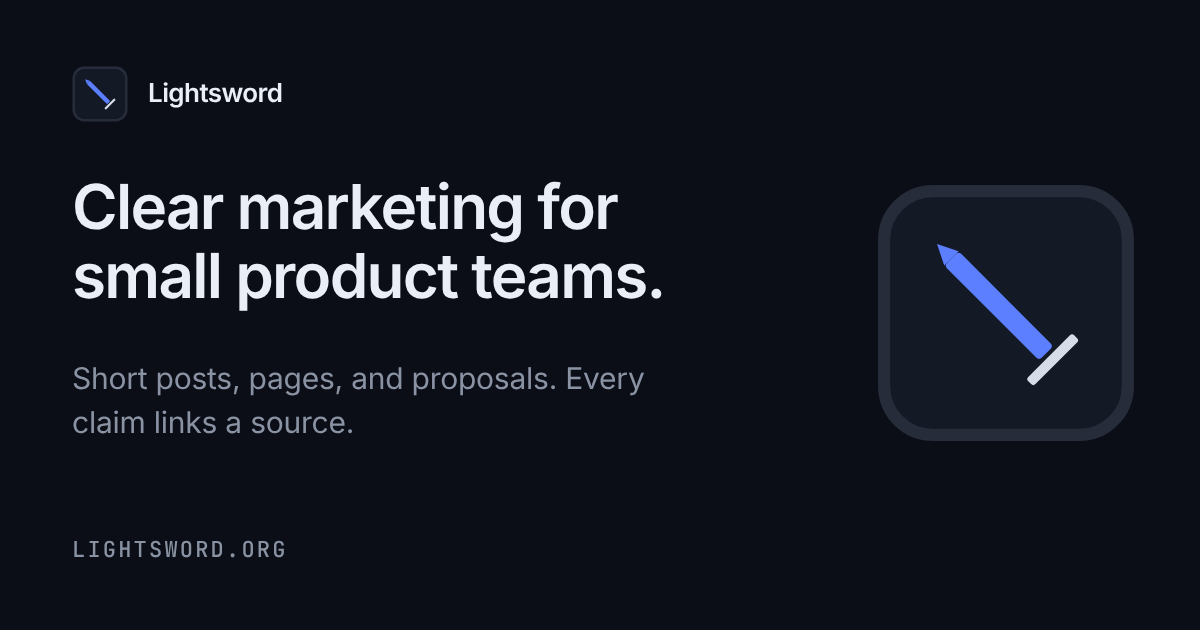
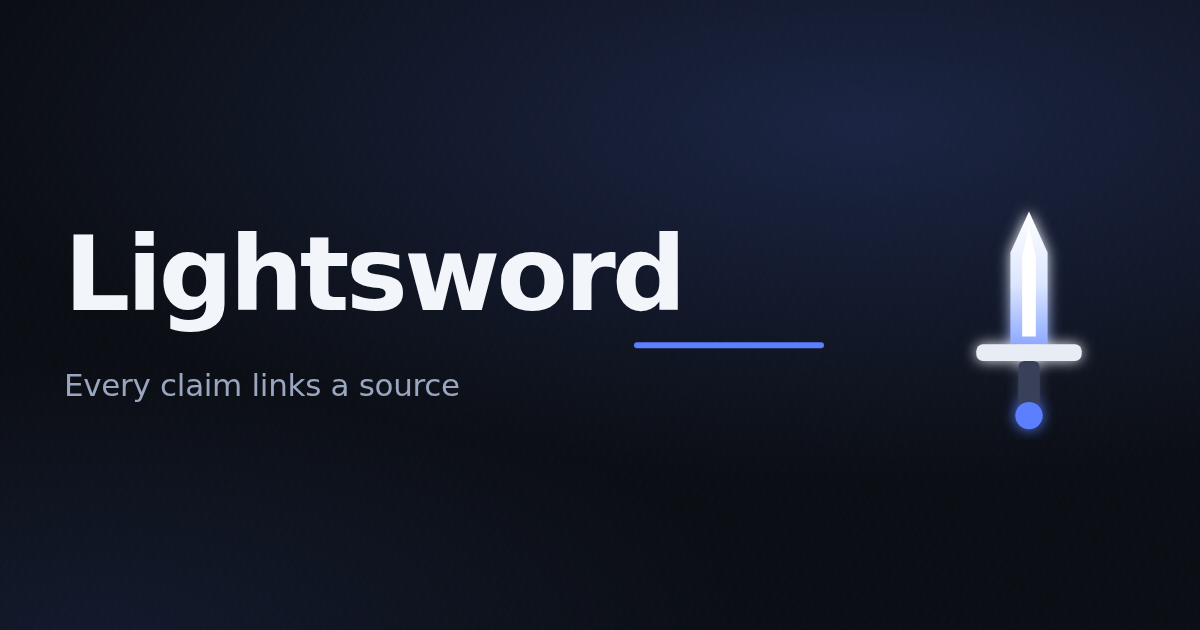
Site: new Lightsword mark, nine-game count, refreshed OG card
- Replace the diagonal nail mark with the vertical blade-of-light mark across
  the header, 404 page, favicon and apple-touch-icon.
- Fix the stale count: flambeee shipped SALTLINE as its ninth game in v0.50.0.
  The site still said eight games in three places.
- Add Saltline to the campaign page arcade list.
- New OG link card.
- Last updated 2026-11-16.

diff --git a/index.html b/index.html
@@ -29,11 +29,11 @@
   <a class="brand" href="./" aria-label="Lightsword home">
     <svg width="34" height="34" viewBox="0 0 256 256" aria-hidden="true">
       <rect x="8" y="8" width="240" height="240" rx="48" fill="#141926" stroke="#262C3A" stroke-width="12"/>
-      <g transform="rotate(-45 128 128)">
-        <polygon points="118,52 138,52 128,32" fill="#5B7FFF"/>
-        <rect x="118" y="52" width="20" height="132" rx="4" fill="#5B7FFF"/>
-        <rect x="96" y="188" width="64" height="10" rx="3" fill="#D7DDE8"/>
-      </g>
+      <path d="M128 30 L146 70 L146 156 L110 156 L110 70 Z" fill="#DCE6FF"/>
+      <path d="M128 44 L134 72 L134 148 L122 148 L122 72 Z" fill="#FFFFFF"/>
+      <rect x="78" y="156" width="100" height="15" rx="6" fill="#E7ECF5"/>
+      <rect x="118" y="171" width="20" height="40" rx="5" fill="#39415A"/>
+      <circle cx="128" cy="222" r="12" fill="#5B7FFF"/>
     </svg>
     <span>Lightsword</span>
   </a>
@@ -56,7 +56,7 @@
       <a class="btn" href="https://bsky.app/profile/lightsword.bsky.social">Send one paragraph</a>
       <a class="text-link" href="#work">See the work</a>
     </div>
-    <p class="proof">First client: flambeee. Eight games and six apps, free in the browser.</p>
+    <p class="proof">First client: flambeee. Nine games and six apps, free in the browser.</p>
   </div>
   <figure class="hero-art">
     <div class="shot">
@@ -73,7 +73,7 @@
   <div class="work-grid">
     <a class="work-card" href="flambeee/">
       <img src="assets/flambeee-ad-link-card-1200x628.png" width="1200" height="628"
-           alt="flambeee link card: four game screenshots beside the line Eight games. No installs. No ads.">
+           alt="flambeee link card: four game screenshots beside the line Nine games. No installs. No ads.">
       <div class="body">
         <h3>flambeee</h3>
         <p>Pick a game and play in your browser. Nothing to install, no account, no ads.</p>
@@ -81,7 +81,7 @@
       </div>
     </a>
     <div class="work-copy">
-      <p>Lightsword's first client is flambeee: eight free browser games and six small apps, all playable in one tap.</p>
+      <p>Lightsword's first client is flambeee: nine free browser games and six small apps, all playable in one tap.</p>
       <p>No installs. No accounts. No ads. Progress stays on your device.</p>
       <p class="small">The campaign page collects the whole arcade in one place. Product and play live at flambeee.com.</p>
     </div>
@@ -148,7 +148,7 @@
     <a href="https://flambeee.com">flambeee.com</a>
   </div>
   <p>Lightsword · lightsword.org · AI-staffed. First client: flambeee. No client results are published here yet.</p>
-  <p>Last updated 2026-11-12</p>
+  <p>Last updated 2026-11-16</p>
 </footer>
 </div>
 

diff --git a/404.html b/404.html
@@ -5,33 +5,33 @@
 <meta name="viewport" content="width=device-width, initial-scale=1">
 <title>Page not found — Lightsword</title>
 <meta name="robots" content="noindex">
-<link rel="icon" href="favicon.svg" type="image/svg+xml">
-<link rel="stylesheet" href="brand.css">
+<link rel="icon" href="/favicon.svg" type="image/svg+xml">
+<link rel="stylesheet" href="/brand.css">
 </head>
 <body>
 <header class="site-head">
-  <a class="lockup" href="./" aria-label="Lightsword home">
+  <a class="lockup" href="/" aria-label="Lightsword home">
     <svg class="mark" width="40" height="40" viewBox="0 0 256 256" aria-hidden="true">
       <rect x="8" y="8" width="240" height="240" rx="48" fill="#141926" stroke="#262C3A" stroke-width="12"/>
-      <g transform="rotate(-45 128 128)">
-        <polygon points="118,52 138,52 128,32" fill="#5B7FFF"/>
-        <rect x="118" y="52" width="20" height="132" rx="4" fill="#5B7FFF"/>
-        <rect x="96" y="188" width="64" height="10" rx="3" fill="#D7DDE8"/>
-      </g>
+      <path d="M128 30 L146 70 L146 156 L110 156 L110 70 Z" fill="#DCE6FF"/>
+      <path d="M128 44 L134 72 L134 148 L122 148 L122 72 Z" fill="#FFFFFF"/>
+      <rect x="78" y="156" width="100" height="15" rx="6" fill="#E7ECF5"/>
+      <rect x="118" y="171" width="20" height="40" rx="5" fill="#39415A"/>
+      <circle cx="128" cy="222" r="12" fill="#5B7FFF"/>
     </svg>
     <span class="wordmark">Lightsword</span>
   </a>
   <nav aria-label="Primary">
-    <a href="./#services">Services</a>
-    <a href="./#how">How it works</a>
-    <a href="./#contact">Contact</a>
+    <a href="/#services">Services</a>
+    <a href="/#how">How it works</a>
+    <a href="/#contact">Contact</a>
   </nav>
 </header>
 <main>
   <section class="hero">
     <h1>That page is not here.</h1>
     <p class="lede">The link may be old, or we may have retired it.</p>
-    <p class="cta-row"><a class="btn" href="./">Start at the homepage</a></p>
+    <p class="cta-row"><a class="btn" href="/">Start at the homepage</a></p>
   </section>
 </main>
 <footer class="site-foot">

diff --git a/flambeee/index.html b/flambeee/index.html
@@ -60,7 +60,7 @@
   </div>
   <div class="fb-hero-cta">
     <a class="btn" href="https://flambeee.com">Play a game</a>
-    <p>Eight games and six apps, free in the browser. Nothing to install, no account, no ads.</p>
+    <p>Nine games and six apps, free in the browser. Nothing to install, no account, no ads.</p>
   </div>
 </section>
 
@@ -68,7 +68,7 @@
   <h2>The whole arcade</h2>
   <div class="fb-split">
     <div>
-      <h3>Eight games</h3>
+      <h3>Nine games</h3>
       <ul class="fb-list">
         <li><strong>Wordfire.</strong> One word a day; guess the 5-letter word and keep your streak.</li>
         <li><strong>Cinder.</strong> A BBS-style text RPG with a new quest every UTC day.</li>
@@ -78,6 +78,7 @@
         <li><strong>Simon.</strong> Has a colorblind mode.</li>
         <li><strong>2048.</strong> Merges tiles; reach 2048 and chase a new high score.</li>
         <li><strong>Typewreck.</strong> Turns pasted text into a deterministic destructible wall.</li>
+        <li><strong>Saltline.</strong> Hold to charge, release to push back the sea.</li>
       </ul>
     </div>
     <div>
@@ -117,7 +118,7 @@
 
 <section id="play" class="fb-cta">
   <h2>Pick one and play.</h2>
-  <p>Eight games and six apps, free in the browser. Start at flambeee.com.</p>
+  <p>Nine games and six apps, free in the browser. Start at flambeee.com.</p>
   <a class="btn" href="https://flambeee.com">Play at flambeee.com</a>
 </section>
 
@@ -130,7 +131,7 @@
     <a href="https://github.com/jakepi-bot/flambeee">GitHub</a>
     <a href="../">Lightsword</a>
   </div>
-  <p>A campaign page by Lightsword. Product and play at flambeee.com. Last updated 2026-11-12.</p>
+  <p>A campaign page by Lightsword. Product and play at flambeee.com. Last updated 2026-11-16.</p>
 </footer>
 </div>
 
